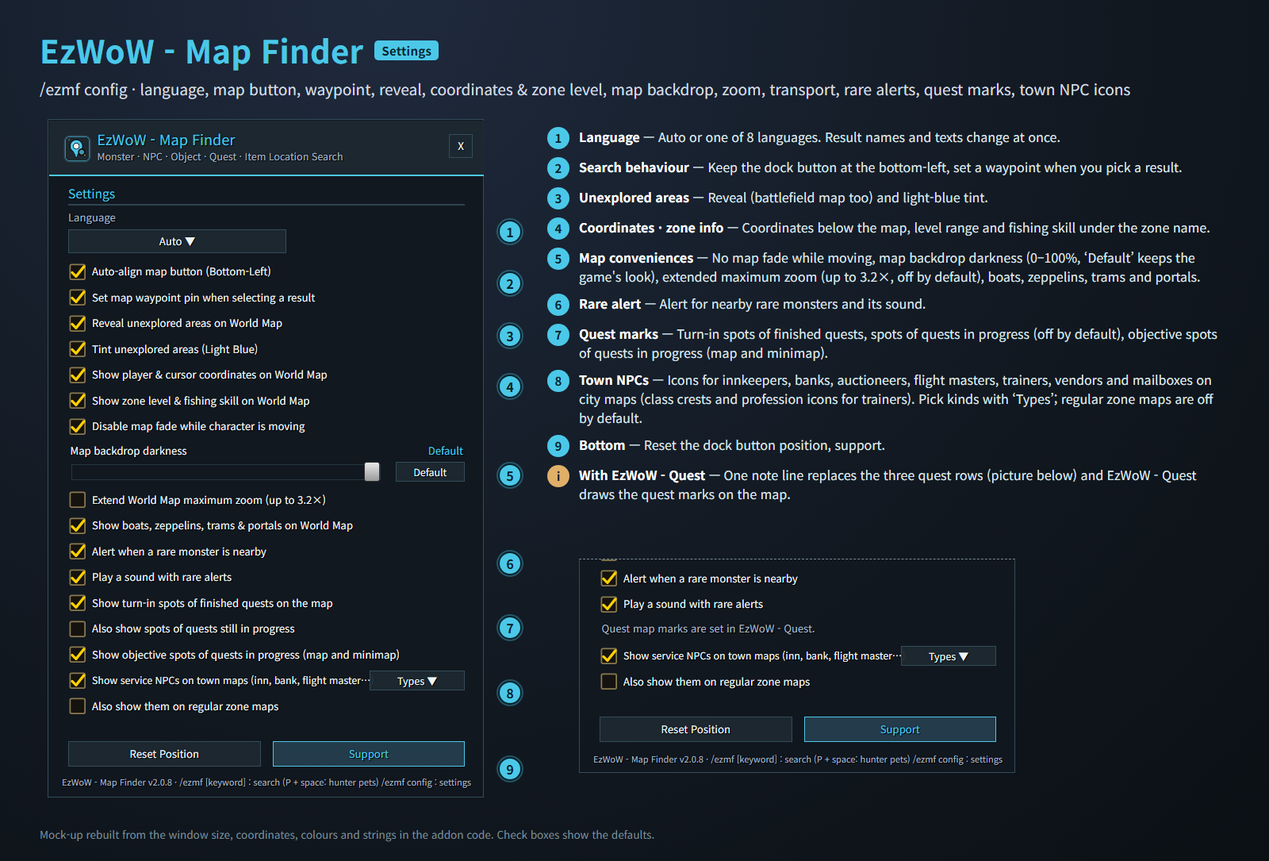
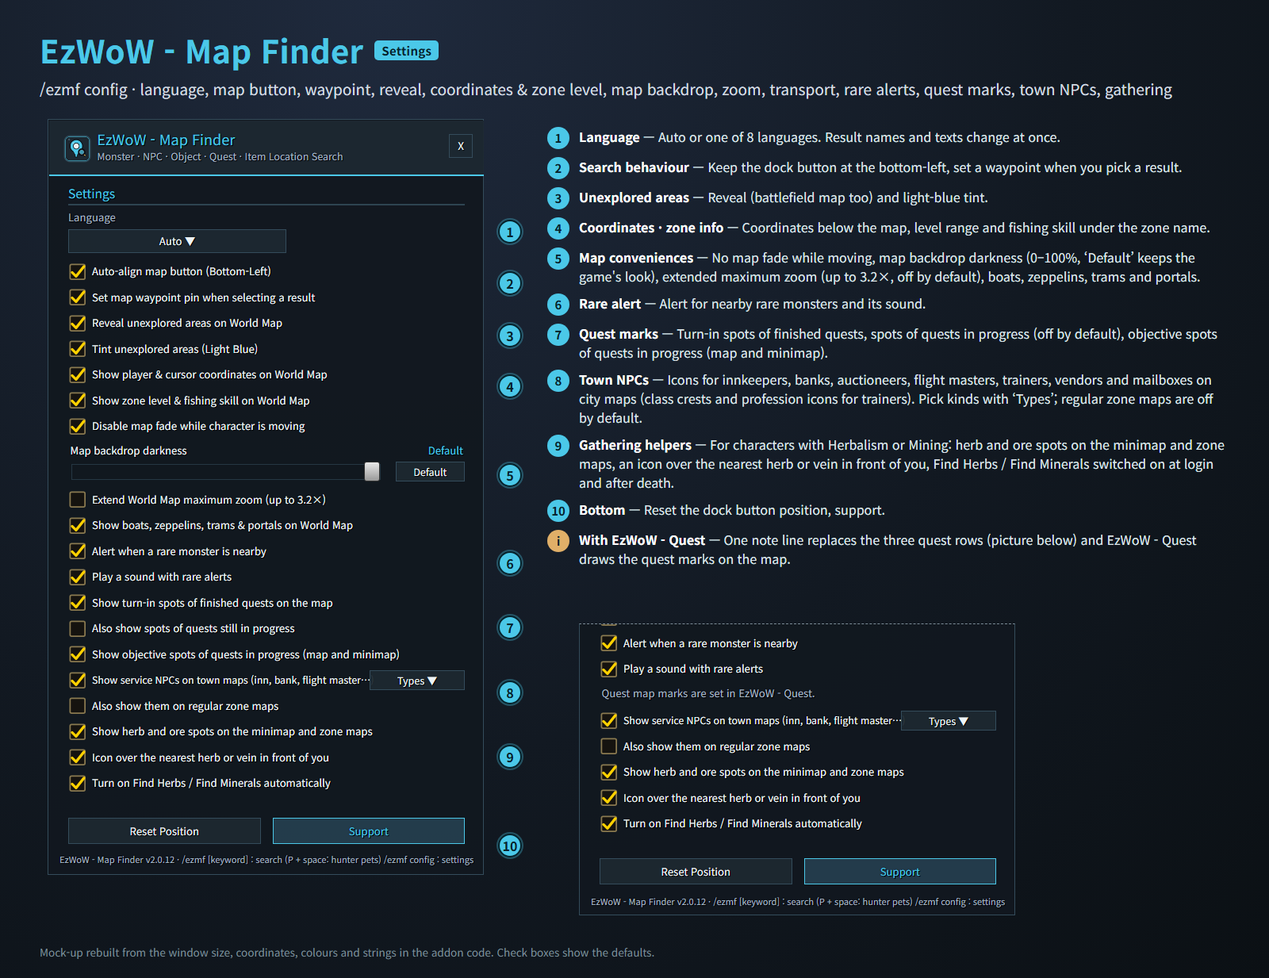
Update README, CurseForge description and example images

diff --git a/scripts/make_readme_images.py b/scripts/make_readme_images.py
@@ -21,6 +21,7 @@ import shutil
 import subprocess
 import sys
 import tempfile
+import time
 from pathlib import Path
 
 PAGE_W = 1600
@@ -131,6 +132,11 @@ def parse_pets(src):
     return fams, skills, pets
 
 
+def parse_gather_colors(src):
+    return {k.lower(): [float(v) for v in body.split(",")] for k, body in
+            re.findall(r"local (HERB|ORE)_COLOR = \{\s*([\d.,\s]+)\}", src)}
+
+
 def css(c, alpha=None):
     r, g, b = (round(min(1, v) * 255) for v in c[:3])
     a = alpha if alpha is not None else (c[3] if len(c) > 3 else 1)
@@ -151,7 +157,7 @@ RARE_EN = "Takk the Leaper"
 
 T = {
     "ko": {
-        "lead": "월드맵에서 몬스터 · 희귀 몹 · 사냥꾼 야수 · NPC · 채집물 · 퀘스트 · 아이템 위치를 8개 언어로 바로 검색, 월드맵 편의 기능과 레어 알림",
+        "lead": "월드맵에서 몬스터 · 희귀 몹 · 사냥꾼 야수 · NPC · 채집물 · 퀘스트 · 아이템 위치를 8개 언어로 바로 검색, 월드맵 편의 기능, 레어 알림, 채집 도우미",
         "query": "P 랩터",
         "mapTitle": "칼림도어 - 불모의 땅",
         "quest": "[16] 오아시스의 위협",
@@ -170,10 +176,11 @@ T = {
             ("미탐험 지역", "가 보지 않은 지역의 안개를 걷고 푸른빛으로 구분합니다(전장 지도 포함)."),
             ("레어 알림", "근처에 레어 몬스터가 보이면 카드와 소리로 알려 주고, “지도에서 보기”로 위치를 찍습니다(같은 몬스터는 5분에 한 번, 던전·공격대 제외)."),
             ("퀘스트 표시", "목표를 다 채운 퀘스트의 보고 위치(?)와 진행 중인 퀘스트의 목표 위치(퀘스트마다 다른 색 점). EzWoW - Quest가 켜져 있으면 EzWoW - Quest가 맡습니다."),
+            ("약초 · 광맥 자리", "약초채집 · 채광이 있으면 약초(초록)와 광맥(주황)이 자랄 수 있는 자리를 지역 지도와 미니맵에 표시합니다. 숙련도가 모자라면 흐리게."),
         ],
         "foot": "애드온 코드의 창 크기·좌표·색상·문구와 내장 데이터(야수 이름·레벨·기술·출현 위치, 지역 레벨, 이동 수단)로 재현한 예시 화면입니다. 지도는 단순화한 그림이고, 퀘스트·NPC 이름은 지어낸 예시입니다.",
         "sTitle": "설정창",
-        "sLead": "/ezmf config · 언어, 지도 버튼, 웨이포인트, 안개 제거, 좌표·지역 레벨, 지도 배경, 확대, 이동 수단, 레어 알림, 퀘스트 표시, 마을 NPC 표시",
+        "sLead": "/ezmf config · 언어, 지도 버튼, 웨이포인트, 안개 제거, 좌표·지역 레벨, 지도 배경, 확대, 이동 수단, 레어 알림, 퀘스트 표시, 마을 NPC, 채집 도우미",
         "sNotes": [
             ("언어", "자동 또는 8개 언어. 검색 결과 이름과 화면 문구가 바로 바뀝니다."),
             ("검색 동작", "도킹 버튼을 왼쪽 아래에 자동 정렬, 결과를 고를 때 웨이포인트 자동 표시."),
@@ -183,13 +190,14 @@ T = {
             ("레어 알림", "근처 레어 몬스터 알림과 알림 소리."),
             ("퀘스트 표시", "완료한 퀘스트의 보고 위치, 진행 중인 퀘스트 위치(처음엔 꺼짐), 진행 중인 퀘스트 목표 위치(지도·미니맵)."),
             ("마을 NPC 표시", "도시 지도에 여관주인·은행·경매인·비행 조련사·교관·상인·우체통 아이콘(교관은 직업 문장·전문기술 아이콘). ‘종류’로 고르고, 일반 지역 지도 표시는 처음엔 꺼짐."),
+            ("채집 도우미", "약초채집·채광이 있는 캐릭터용: 미니맵·지역 지도에 약초·광맥 자리, 앞에 있는 가장 가까운 약초·광맥 위 아이콘, 접속·부활 때 약초 찾기·광물 찾기 자동 켜기."),
             ("하단", "도킹 버튼 위치 초기화, 후원하기."),
         ],
         "sHand": ("EzWoW - Quest와 함께 쓸 때", "퀘스트 표시 세 줄 대신 안내 한 줄이 나오고(아래 그림), 지도의 퀘스트 표시는 EzWoW - Quest가 맡습니다."),
         "sFoot": "애드온 코드의 창 크기·좌표·색상·문구로 재현한 예시 화면입니다. 체크 상태는 기본값입니다.",
     },
     "en": {
-        "lead": "Find monsters, rares, tameable beasts, NPCs, nodes, quests and items on the World Map in 8 languages, plus map conveniences and rare alerts",
+        "lead": "Find monsters, rares, tameable beasts, NPCs, nodes, quests and items on the World Map in 8 languages, plus map conveniences, rare alerts and gathering helpers",
         "query": "P raptor",
         "mapTitle": "Kalimdor - The Barrens",
         "quest": "[16] Trouble at the Oasis",
@@ -208,10 +216,11 @@ T = {
             ("Unexplored areas", "Lifts the fog from areas you have not visited and tints them light blue (battlefield map too)."),
             ("Rare alert", "A card and a sound when a rare monster is nearby; “Show on map” marks it (once per 5 minutes per monster, not in dungeons or raids)."),
             ("Quest marks", "Turn-in spots of finished quests (?) and objective spots of quests in progress (one dot colour per quest). With EzWoW - Quest enabled, EzWoW - Quest handles them."),
+            ("Herb & ore spots", "With Herbalism or Mining, the places where herbs (green) and ore (orange) can grow on zone maps and the minimap. Dimmed when your skill is too low."),
         ],
         "foot": "Mock-up rebuilt from the window sizes, coordinates, colours and strings in the addon code and the bundled data (beast names, levels, skills and spawns, zone levels, transport). The map is a simplified drawing; quests and NPC names are made up.",
         "sTitle": "Settings",
-        "sLead": "/ezmf config · language, map button, waypoint, reveal, coordinates & zone level, map backdrop, zoom, transport, rare alerts, quest marks, town NPC icons",
+        "sLead": "/ezmf config · language, map button, waypoint, reveal, coordinates & zone level, map backdrop, zoom, transport, rare alerts, quest marks, town NPCs, gathering",
         "sNotes": [
             ("Language", "Auto or one of 8 languages. Result names and texts change at once."),
             ("Search behaviour", "Keep the dock button at the bottom-left, set a waypoint when you pick a result."),
@@ -221,6 +230,7 @@ T = {
             ("Rare alert", "Alert for nearby rare monsters and its sound."),
             ("Quest marks", "Turn-in spots of finished quests, spots of quests in progress (off by default), objective spots of quests in progress (map and minimap)."),
             ("Town NPCs", "Icons for innkeepers, banks, auctioneers, flight masters, trainers, vendors and mailboxes on city maps (class crests and profession icons for trainers). Pick kinds with ‘Types’; regular zone maps are off by default."),
+            ("Gathering helpers", "For characters with Herbalism or Mining: herb and ore spots on the minimap and zone maps, an icon over the nearest herb or vein in front of you, Find Herbs / Find Minerals switched on at login and after death."),
             ("Bottom", "Reset the dock button position, support."),
         ],
         "sHand": ("With EzWoW - Quest", "One note line replaces the three quest rows (picture below) and EzWoW - Quest draws the quest marks on the map."),
@@ -419,6 +429,15 @@ def search_panel(ctx, lang, x0, y0, results, selected):
 # World map (simplified art) with the addon's marks
 # ---------------------------------------------------------------------------
 BOAT_ICON = "Transit-Boat.png"
+# a character with Herbalism and Mining: (kind, x %, y %, skill high enough)
+GATHER_SPOTS = [("herb", 42.5, 82.0, True), ("herb", 48.0, 86.5, True), ("ore", 53.5, 80.5, True),
+                ("herb", 58.0, 87.0, True), ("ore", 61.0, 79.0, False)]
+HERB_SVG = ('<svg viewBox="0 0 20 20" width="100%" height="100%"><rect width="20" height="20" fill="#2f4a22"/>'
+            '<g fill="#e9d36a"><circle cx="10" cy="5.5" r="3"/><circle cx="14.5" cy="9" r="3"/><circle cx="12.5" cy="14" r="3"/>'
+            '<circle cx="7.5" cy="14" r="3"/><circle cx="5.5" cy="9" r="3"/></g><circle cx="10" cy="10" r="2.4" fill="#b8542a"/></svg>')
+ORE_SVG = ('<svg viewBox="0 0 20 20" width="100%" height="100%"><rect width="20" height="20" fill="#3b332c"/>'
+           '<path d="M3 14 L7 6 L13 5 L17 11 L13 16 L6 17 Z" fill="#c07a45" stroke="#6b4022" stroke-width="1"/>'
+           '<path d="M7 6 L10 11 L13 5 M10 11 L6 17 M10 11 L17 11" stroke="#e7a56c" stroke-width=".8" fill="none"/></svg>')
 
 
 def map_scene(ctx, lang, x0, y0, w, h):
@@ -499,6 +518,18 @@ def map_scene(ctx, lang, x0, y0, w, h):
                  f'<div style="color:{css(th["muted"])}">EzWoW - Map Finder</div></div>')
     anchors["quest"] = (pts[2][0] - 26, pts[2][1] + 4)
     anchors["questQ"] = (qx, qy)
+    # herb / ore spots (Modules/ServiceNpcPins.lua GatherPins): coloured rim, round icon,
+    # dimmed and desaturated when the skill is too low
+    gs = 18 * S  # drawn larger than in game so the icons read at this size
+    for kind, gx, gy, can in GATHER_SPOTS:
+        cx_, cy_ = M(gx, gy)
+        col = ctx["gather"][kind]
+        icon = HERB_SVG if kind == "herb" else ORE_SVG
+        parts.append(f'<div class="abs" style="left:{cx_ - gs / 2:.1f}px;top:{cy_ - gs / 2:.1f}px;width:{gs:.1f}px;height:{gs:.1f}px;border-radius:50%;'
+                     f'background:{css(col, 1 if can else .5)};opacity:{1 if can else .55};padding:{1.5 * S:.1f}px;'
+                     f'filter:{"none" if can else "grayscale(1)"} drop-shadow(0 0 1px #000)">'
+                     f'<div style="width:100%;height:100%;border-radius:50%;overflow:hidden">{icon}</div></div>')
+    anchors["gather"] = (M(*GATHER_SPOTS[0][1:3])[0] - 30, M(*GATHER_SPOTS[0][1:3])[1])
     # coordinate bar (250 x 20, bottom of the map)
     bw, bh = 250 * S, 20 * S
     bx, by = x0 + w / 2 - bw / 2, y0 + h - 8 * S - bh
@@ -582,6 +613,7 @@ def ui_page(lang, ctx):
         M(28, 5),                                       # 9 unexplored tint
         (card_x - 22, card_y + 37 * S),                 # 10 rare alert
         anchors["quest"],                               # 11 quest marks
+        anchors["gather"],                              # 12 herb and ore spots
     ]
     for i, (x, y) in enumerate(calls, 1):
         parts.append(f'<div class="call" style="left:{x - 15:.0f}px;top:{y - 15:.0f}px">{i}</div>')
@@ -637,7 +669,7 @@ def settings_window(ctx, lang, x0, y0, managed=False, crop=None):
         val = d.get(r["field"])
         on = (val is not False) if r["op"] == "~= false" else (val is True)
         y = r["y"]
-        service = r["field"].startswith("serviceNpc")
+        service = r["field"].startswith(("serviceNpc", "gather"))  # placeServiceRows moves both
         if managed and service:
             y -= o["serviceShift"]  # rows move up into the space of the hidden quest rows
         fit = 290 if r["field"] == "serviceNpcPins" else 380
@@ -682,7 +714,7 @@ def settings_page(lang, ctx):
     spans = [(93, 134), (ys["autoAlign"], ys["autoWaypoint"] + 22), (ys["revealMap"], ys["revealTint"] + 22),
              (ys["showCoords"], ys["showZoneLevels"] + 22), (ys["noMapFade"], ys["showTransit"] + 22),
              (ys["rareAlert"], ys["rareAlertSound"] + 22), (ys["questLogPins"], ys["questObjectivePins"] + 22),
-             (ys["serviceNpcPins"], ys["serviceNpcPinsZones"] + 22), (H - 58, H)]
+             (ys["serviceNpcPins"], ys["serviceNpcPinsZones"] + 22), (ys["gatherPins"], ys["gatherAutoTrack"] + 22), (H - 58, H)]
     calls = "".join(f'<div class="call" style="left:{ox + W * S + 18:.0f}px;top:{oy + (a + b) / 2 * S - 15:.0f}px">{i}</div>'
                     for i, (a, b) in enumerate(spans, 1))
     nx = ox + W * S + 80
@@ -713,10 +745,26 @@ def find_chrome():
 def render(chrome, html_text, out_png, height, tmp):
     page = Path(tmp) / (out_png.stem + ".html")
     page.write_text(html_text, encoding="utf-8")
-    subprocess.run([chrome, "--headless=new", "--disable-gpu", "--hide-scrollbars", "--force-device-scale-factor=1",
-                    f"--user-data-dir={Path(tmp) / 'chrome_profile'}", f"--window-size={PAGE_W},{int(height)}",
-                    "--virtual-time-budget=2000", f"--screenshot={out_png}", page.as_uri()],
-                   check=True, stdout=subprocess.DEVNULL, stderr=subprocess.DEVNULL, timeout=120)
+    before = out_png.stat().st_mtime_ns if out_png.exists() else 0
+    proc = subprocess.Popen([chrome, "--headless=new", "--disable-gpu", "--hide-scrollbars", "--force-device-scale-factor=1",
+                             f"--user-data-dir={Path(tmp) / 'chrome_profile'}", f"--window-size={PAGE_W},{int(height)}",
+                             "--virtual-time-budget=2000", f"--screenshot={out_png}", page.as_uri()],
+                            stdout=subprocess.DEVNULL, stderr=subprocess.DEVNULL)
+    # Chrome sometimes keeps running after the screenshot is saved: stop waiting
+    # once the file is written and no longer growing.
+    deadline, last = time.time() + 180, -1
+    while proc.poll() is None and time.time() < deadline:
+        time.sleep(0.5)
+        if out_png.exists() and out_png.stat().st_mtime_ns != before:
+            size = out_png.stat().st_size
+            if size and size == last:
+                break
+            last = size
+    if proc.poll() is None:
+        proc.kill()
+        proc.wait()
+    if not (out_png.exists() and out_png.stat().st_mtime_ns != before):
+        sys.exit(f"screenshot failed: {out_png}")
 
 
 def data_uri(path):
@@ -740,6 +788,7 @@ def main(root: Path):
         "transit": parse_transit(zone_src, MAP_ID),
         "factions": parse_faction_colors(zone_src),
         "pets": parse_pets(read(root, "Database/HunterPets.lua")),
+        "gather": parse_gather_colors(read(root, "Modules/ServiceNpcPins.lua")),
         "qcolors": [[float(v) for v in b.split(",")] for b in re.findall(r"\{\s*([\d.,\s]+)\}", qblock)],
         "icon": data_uri(root / "Media" / "Icon.png"),
         "icons": {k: data_uri(root / "Media" / f"Transit-{n}.png") for k, n in

diff --git a/README.md b/README.md
@@ -15,7 +15,7 @@ WoW Forever (`Interface: 16001`) · `/ezmf`
 
 ### 개요
 
-월드맵에서 **몬스터 · 희귀 몬스터 · 사냥꾼이 길들일 수 있는 야수 · NPC · 채집물/오브젝트 · 퀘스트 · 아이템** 위치를 바로 찾아 주는 오프라인 검색 애드온입니다. 내장 데이터는 **20,930개 항목**(NPC 7,421 · 오브젝트 7,656 · 퀘스트 4,140 · 아이템 1,713)이며 8개 언어 이름으로 검색할 수 있습니다. 미탐험 지역 안개 제거, 좌표, 지역 적정 레벨·낚시 숙련도, 지도 뒤 배경 어둡기, 확대 배율, 배·비행선·지하철·차원문 표시 같은 월드맵 편의 기능과, 근처에 레어 몬스터가 나타나면 알려 주고 바로 지도에 위치를 찍어 주는 기능, 퀘스트 보고 위치·목표 위치 표시도 들어 있습니다.
+월드맵에서 **몬스터 · 희귀 몬스터 · 사냥꾼이 길들일 수 있는 야수 · NPC · 채집물/오브젝트 · 퀘스트 · 아이템** 위치를 바로 찾아 주는 오프라인 검색 애드온입니다. 내장 데이터는 **20,930개 항목**(NPC 7,421 · 오브젝트 7,656 · 퀘스트 4,140 · 아이템 1,713)이며 8개 언어 이름으로 검색할 수 있습니다. 미탐험 지역 안개 제거, 좌표, 지역 적정 레벨·낚시 숙련도, 지도 뒤 배경 어둡기, 확대 배율, 배·비행선·지하철·차원문 표시 같은 월드맵 편의 기능과, 근처에 레어 몬스터가 나타나면 알려 주고 바로 지도에 위치를 찍어 주는 기능, 퀘스트 보고 위치·목표 위치 표시, 도시 지도의 주요 NPC 아이콘, 약초채집·채광 캐릭터를 위한 채집 도우미(약초·광맥 자리 표시, 상호작용 아이콘, 약초 찾기·광물 찾기 자동 켜기)도 들어 있습니다. 검색과 지도 이동은 전투 중에도 됩니다.
 
 > **EzWoW - Quest**가 함께 켜져 있으면 퀘스트 보고 위치(`?`)와 목표 위치 표시는 EzWoW - Quest가 맡습니다. 자세한 내용은 [EzWoW - Quest와 함께 쓰기](#ezwow---quest와-함께-쓰기)를 보세요.
 
@@ -48,7 +48,8 @@ WoW Forever (`Interface: 16001`) · `/ezmf`
 | ⑨ | 미탐험 지역 | 가 보지 않은 지역의 안개를 걷고 푸른빛으로 구분합니다(전장 지도 `Shift+M` 포함). |
 | ⑩ | 레어 알림 | 근처에 레어 몬스터가 보이면(이름표 · 마우스오버 · 대상) 카드와 소리로 알려 주고, **지도에서 보기**로 위치를 찍습니다. 같은 몬스터는 5분에 한 번, 던전 · 공격대에서는 알리지 않습니다. |
 | ⑪ | 퀘스트 표시 | 목표를 다 채운 퀘스트의 보고 위치(금색 테두리 안의 노란 `?`)와 진행 중인 퀘스트의 목표 위치(퀘스트마다 다른 색 점, 미니맵에도 표시). 누르면 웨이포인트. **EzWoW - Quest**가 켜져 있으면 EzWoW - Quest가 맡습니다. |
-| - | 마을 NPC 표시 | 도시 지도에 여관주인·은행·비행 조련사·교관·상인·우체통 등을 미니맵 추적 아이콘처럼 표시(직업 교관은 직업 문장, 전문기술 교관은 그 전문기술 아이콘). 가리키면 이름과 칭호, 누르면 웨이포인트. |
+| ⑫ | 약초 · 광맥 자리 | 약초채집 · 채광이 있는 캐릭터는 약초(초록 테두리)와 광맥(주황 테두리)이 자랄 수 있는 자리가 지역 지도와 미니맵(가까운 곳)에 나옵니다. 숙련도가 모자란 자리는 흐리게 표시합니다. 가리키면 이름과 필요 숙련도. 자랄 수 있는 자리일 뿐 항상 있지는 않습니다. |
+| - | 마을 NPC 표시 | 도시 지도에 여관주인·은행·비행 조련사·교관·상인·우체통 등을 미니맵 추적 아이콘처럼 표시(직업 교관은 직업 문장, 전문기술 교관은 그 전문기술 아이콘, 직업용품 상인은 가방 아이콘). 가리키면 이름과 칭호, 누르면 웨이포인트. |
 
 #### 접두어 검색
 
@@ -87,9 +88,13 @@ WoW Forever (`Interface: 16001`) · `/ezmf`
 | ⑦ | 진행 중인 퀘스트 목표 위치 표시 (지도·미니맵, 퀘스트마다 다른 색 점) | 켬 |
 | ⑧ | 마을 지도에 주요 NPC 표시 (여관주인·은행원·경매인·비행 조련사·야수 관리인·직업/전문기술 교관·수리·잡화·음식·마법 재료·직업용품 상인·길드·전장 관리인·영혼의 치유사·우체통). 오른쪽 **종류 ▼**로 종류별 켜기/끄기 | 켬 |
 | ⑧ | 일반 지역 지도에도 표시 | 끔 |
-| ⑨ | 위치 초기화 · 후원하기 | - |
+| ⑨ | 미니맵 · 지역 지도에 약초 · 광맥 자리 표시 (약초채집 · 채광이 있는 캐릭터, 숙련도가 모자라면 흐리게) | 켬 |
+| ⑨ | 앞에 있는 가장 가까운 약초 · 광맥 위에 아이콘 표시 (게임 기본 상호작용 아이콘, 상자 포함. 끄면 원래 설정으로) | 켬 |
+| ⑨ | 약초 찾기 · 광물 찾기 자동으로 켜기 (접속할 때와 부활한 뒤. 직접 끄면 다음 접속이나 사망 전까지 그대로) | 켬 |
+| ⑩ | 위치 초기화 · 후원하기 | - |
 
-- **EzWoW - Quest**가 켜져 있으면 ⑦의 세 줄 대신 “퀘스트 지도 표시는 EzWoW - Quest에서 설정합니다.” 한 줄이 나옵니다.
+- **EzWoW - Quest**가 켜져 있으면 ⑦의 세 줄 대신 “퀘스트 지도 표시는 EzWoW - Quest에서 설정합니다.” 한 줄이 나오고, ⑧ · ⑨ 줄이 그만큼 위로 올라갑니다.
+- ⑨의 채집 도우미는 약초채집이나 채광을 배운 캐릭터에서만 동작합니다.
 
 ### 명령어 (`/ezmf`, `/emf`, `/맵파인더`)
 
@@ -113,7 +118,7 @@ WoW Forever (`Interface: 16001`) · `/ezmf`
 
 ### 알아두면 좋은 점
 
-- 전투 중에는 게임 규칙상 지도 지역을 바꿀 수 없습니다. 전투가 끝난 뒤 결과를 눌러 주세요.
+- 검색창 · `/ezmf 검색어` · 레어 알림의 **지도에서 보기**는 전투 중에도 월드맵을 열고 그 지역으로 이동합니다. 이동 수단 아이콘은 전투 중에 누르면 전투가 끝난 뒤 도착지 지도를 엽니다.
 - "캐릭터 이동 중 월드맵 반투명화 해제"를 끄면 원래 쓰던 게임 설정으로 되돌립니다.
 - 검색은 프레임이 끊기지 않도록 나눠서 진행되며, 진행 중에는 `[검색중...] (%)`이 보입니다.
 
@@ -123,7 +128,7 @@ WoW Forever (`Interface: 16001`) · `/ezmf`
 
 ### Overview
 
-Map Finder is an offline location search for the World Map: **monsters, rare elites, tameable beasts, NPCs, gathering nodes/objects, quests and items**. The built-in data has **20,930 entries** (7,421 NPCs · 7,656 objects · 4,140 quests · 1,713 items) searchable by name in 8 languages. It also adds World Map conveniences: reveal unexplored areas, coordinates, zone level ranges and fishing skill, map backdrop darkness, extended zoom and boat/zeppelin/tram/portal icons, plus an alert when a rare monster is nearby that can put its location straight on the map, and quest turn-in and objective spots.
+Map Finder is an offline location search for the World Map: **monsters, rare elites, tameable beasts, NPCs, gathering nodes/objects, quests and items**. The built-in data has **20,930 entries** (7,421 NPCs · 7,656 objects · 4,140 quests · 1,713 items) searchable by name in 8 languages. It also adds World Map conveniences: reveal unexplored areas, coordinates, zone level ranges and fishing skill, map backdrop darkness, extended zoom and boat/zeppelin/tram/portal icons, plus an alert when a rare monster is nearby that can put its location straight on the map, quest turn-in and objective spots, service NPC icons on city maps and gathering helpers for herbalists and miners (herb and ore spots, interact icons, Find Herbs / Find Minerals switched on for you). Search and map jumps work in combat too.
 
 > When **EzWoW - Quest** is enabled, the quest turn-in (`?`) and objective marks are handled by EzWoW - Quest. See [Working with EzWoW - Quest](#working-with-ezwow---quest).
 
@@ -156,7 +161,8 @@ Map Finder is an offline location search for the World Map: **monsters, rare eli
 | ⑨ | Unexplored areas | Lifts the fog from areas you have not visited and tints them light blue (battlefield map `Shift+M` too). |
 | ⑩ | Rare alert | A card and a sound when a rare monster is nearby (nameplate · mouseover · target); **Show on map** marks it. Once per 5 minutes per monster, not in dungeons or raids. |
 | ⑪ | Quest marks | Turn-in spots of finished quests (a yellow `?` in a gold rim) and objective spots of quests in progress (one dot colour per quest, on the minimap too). Click for a waypoint. Handled by **EzWoW - Quest** while it is enabled. |
-| - | Town NPCs | Innkeepers, banks, flight masters, trainers, vendors, mailboxes and more on city maps, like the minimap tracking icons (class crests for class trainers, the profession's own icon for profession trainers). Hover for name and title, click for a waypoint. |
+| ⑫ | Herb & ore spots | For characters with Herbalism or Mining, the places where herbs (green rim) and ore (orange rim) can grow appear on zone maps and on the minimap (nearby). Spots above your skill are dimmed. Hover for the name and the skill needed. A spot is where a node can grow, not always one that is there now. |
+| - | Town NPCs | Innkeepers, banks, flight masters, trainers, vendors, mailboxes and more on city maps, like the minimap tracking icons (class crests for class trainers, the profession's own icon for profession trainers, a bag for trade supply vendors). Hover for name and title, click for a waypoint. |
 
 #### Prefix search
 
@@ -195,9 +201,13 @@ Map Finder is an offline location search for the World Map: **monsters, rare eli
 | ⑦ | Show objective spots of quests in progress (map and minimap, one dot colour per quest) | On |
 | ⑧ | Show service NPCs on town maps (innkeepers, bankers, auctioneers, flight & stable masters, class/profession trainers, repair, general goods, food, reagent & trade supply vendors, guild & battle masters, spirit healers, mailboxes). The **Types ▼** button turns each kind on or off | On |
 | ⑧ | Also show them on regular zone maps | Off |
-| ⑨ | Reset Position · Support | - |
+| ⑨ | Show herb and ore spots on the minimap and zone maps (characters with Herbalism or Mining; dimmed when your skill is too low) | On |
+| ⑨ | Icon over the nearest herb or vein in front of you (the game's own interact icon, chests too; your own settings come back when turned off) | On |
+| ⑨ | Turn on Find Herbs / Find Minerals automatically (at login and after you come back to life; turning it off by hand is kept until the next login or death) | On |
+| ⑩ | Reset Position · Support | - |
 
-- While **EzWoW - Quest** is enabled, the three ⑦ rows are replaced by one line: “Quest map marks are set in EzWoW - Quest.”
+- While **EzWoW - Quest** is enabled, the three ⑦ rows are replaced by one line: “Quest map marks are set in EzWoW - Quest.”, and the ⑧ · ⑨ rows move up.
+- The ⑨ gathering helpers only work on characters that have Herbalism or Mining.
 
 ### Slash commands (`/ezmf`, `/emf`, `/맵파인더`)
 
@@ -221,7 +231,7 @@ Map Finder is an offline location search for the World Map: **monsters, rare eli
 
 ### Tips
 
-- The game does not allow changing the map zone in combat; click the result again after combat.
+- The search panel, `/ezmf keyword` and **Show on map** on the rare alert open the World Map and move to the zone in combat too. A transport icon clicked in combat opens its destination map after combat.
 - Turning off "Disable map fade while character is moving" puts your previous game setting back.
 - Searches run in small steps to avoid frame drops; `[Searching...] (%)` is shown meanwhile.
 
